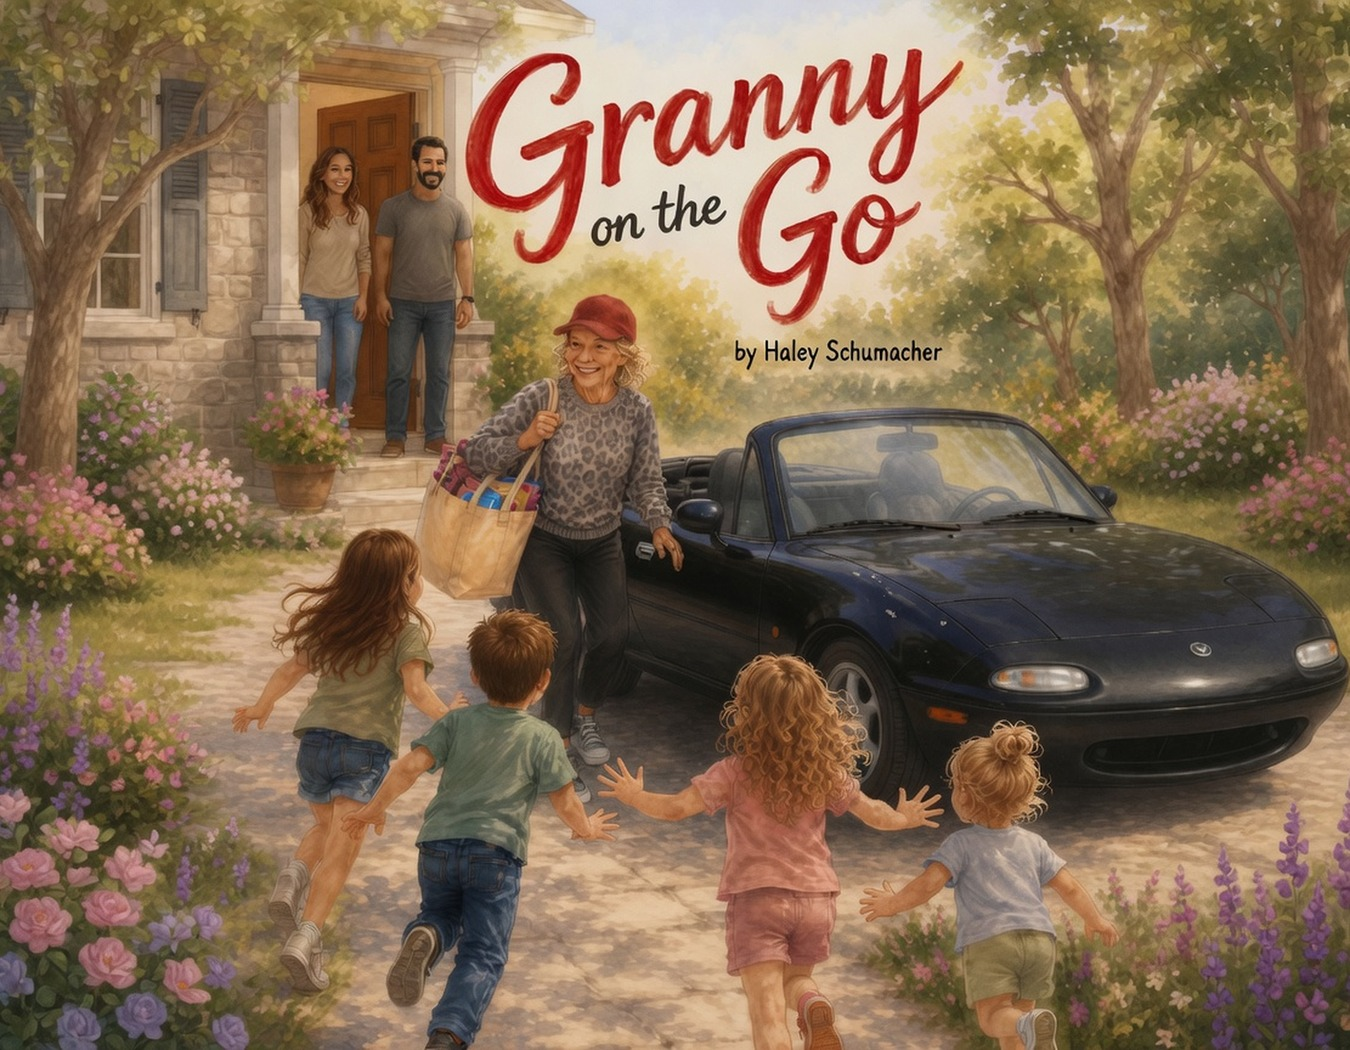
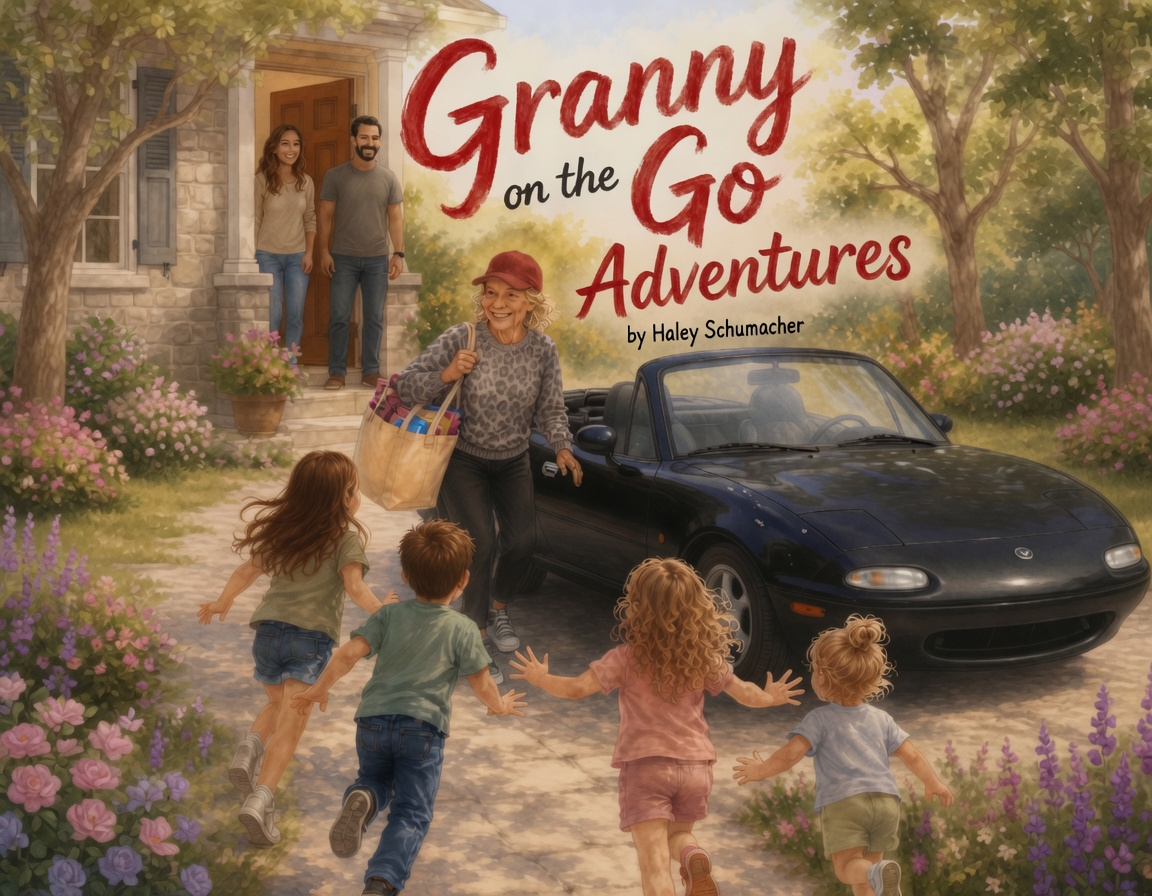
Update pricing: .99 standard / .99 signed hardcopy + flat-rate shipping; rename to Granny on the Go Adventures

diff --git a/src/app/layout.tsx b/src/app/layout.tsx
@@ -16,11 +16,11 @@ const sourceSans = Source_Sans_3({
 });
 
 export const metadata: Metadata = {
-  title: "Granny on the Go | Official Website | Granny on the Go Adventures",
+  title: "Granny on the Go Adventures | Official Website",
   description:
-    "Step into the timeless story of Granny on the Go — where ordinary days become extraordinary adventures. The official home of Granny on the Go Adventures.",
+    "Step into the timeless story of Granny on the Go Adventures — where ordinary days become extraordinary adventures. The official home of Granny on the Go Adventures.",
   keywords: [
-    "Granny on the Go",
+    "Granny on the Go Adventures",
     "children's book",
     "Haley Schumacher",
     "adventure",
@@ -36,9 +36,9 @@ export const metadata: Metadata = {
     canonical: "/",
   },
   openGraph: {
-    title: "Granny on the Go | Official Website",
+    title: "Granny on the Go Adventures | Official Website",
     description:
-      "Step into the timeless story of Granny on the Go — where ordinary days become extraordinary adventures.",
+      "Step into the timeless story of Granny on the Go Adventures — where ordinary days become extraordinary adventures.",
     url: "https://grannyonthegoadventures.com",
     siteName: "Granny on the Go Adventures",
     locale: "en_US",
@@ -48,15 +48,15 @@ export const metadata: Metadata = {
         url: "/images/og-image.jpg",
         width: 1200,
         height: 1600,
-        alt: "Granny on the Go book cover",
+        alt: "Granny on the Go Adventures book cover",
       },
     ],
   },
   twitter: {
     card: "summary_large_image",
-    title: "Granny on the Go | Official Website",
+    title: "Granny on the Go Adventures | Official Website",
     description:
-      "Step into the timeless story of Granny on the Go — where ordinary days become extraordinary adventures.",
+      "Step into the timeless story of Granny on the Go Adventures — where ordinary days become extraordinary adventures.",
     images: ["/images/og-image.jpg"],
   },
   robots: {

diff --git a/src/components/book/BookPageContent.tsx b/src/components/book/BookPageContent.tsx
@@ -33,7 +33,7 @@ export default function BookPageContent({ pageId, onNext }: Props) {
             Welcome to Granny on the Go Adventures.
           </p>
           <p className="mb-2 max-w-sm font-serif text-[13px] leading-snug text-charcoal/70 md:mb-3 md:text-base md:leading-relaxed">
-            This is the official home of Granny on the Go—a place where imagination
+            This is the official home of Granny on the Go Adventures—a place where imagination
             is encouraged, kindness is celebrated, and the smallest moments often
             become the greatest adventures.
           </p>
@@ -240,7 +240,7 @@ export default function BookPageContent({ pageId, onNext }: Props) {
             Mother. Storyteller. Believer in childhood.
           </p>
           <p className="mb-1.5 font-serif text-[13px] leading-snug text-charcoal/80 md:mb-2 md:text-base md:leading-relaxed">
-            Granny on the Go began as a simple dream—to capture the kind of childhood
+            Granny on the Go Adventures began as a simple dream—to capture the kind of childhood
             memories that stay with us forever.
           </p>
           <p className="mb-1.5 font-serif text-[13px] leading-snug text-charcoal/80 md:mb-2 md:text-base md:leading-relaxed">

diff --git a/src/components/book/OpenBook.tsx b/src/components/book/OpenBook.tsx
@@ -107,7 +107,7 @@ export default function OpenBook({
             <div className="relative flex flex-col justify-between px-8 py-8 lg:px-14 lg:py-12">
               <div>
                 <p className="font-sans text-[10px] uppercase tracking-[0.32em] text-terracotta/75">
-                  Granny on the Go
+                  Granny on the Go Adventures
                 </p>
                 <h2 className="mt-3 font-serif text-3xl leading-tight text-deep-burgundy lg:text-5xl">
                   {page?.title}
@@ -159,7 +159,7 @@ export default function OpenBook({
             <header className="shrink-0 border-b border-warm-beige/70 px-4 pb-2 pt-3">
               <div className="flex items-baseline justify-between gap-2">
                 <p className="font-sans text-[9px] uppercase tracking-[0.28em] text-terracotta/80">
-                  Granny on the Go
+                  Granny on the Go Adventures
                 </p>
                 <p className="shrink-0 font-sans text-[10px] text-charcoal/35">
                   {pageIndex + 1}/{BOOK_PAGES.length}

diff --git a/src/components/StructuredData.tsx b/src/components/StructuredData.tsx
@@ -8,14 +8,14 @@ export default function StructuredData() {
         url: "https://grannyonthegoadventures.com",
         name: "Granny on the Go Adventures",
         description:
-          "The official home of Granny on the Go — a children's book brand about curiosity, courage, and everyday wonder.",
+          "The official home of Granny on the Go Adventures — a children's book brand about curiosity, courage, and everyday wonder.",
         publisher: { "@id": "https://grannyonthegoadventures.com/#author" },
         inLanguage: "en-US",
       },
       {
         "@type": "Book",
         "@id": "https://grannyonthegoadventures.com/#book",
-        name: "Granny on the Go",
+        name: "Granny on the Go Adventures",
         author: { "@id": "https://grannyonthegoadventures.com/#author" },
         description:
           "A story about love, adventure, and the little things that mean the most. Ordinary days become extraordinary when someone truly sees a child.",

diff --git a/src/components/ComingSoon.tsx b/src/components/ComingSoon.tsx
@@ -61,7 +61,7 @@ export default function ComingSoon({ bookMode = false }: Props) {
         )}
 
         <p className="mb-2 font-serif text-xl text-charcoal/80 md:text-2xl">
-          Pre-order Granny on the Go
+          Pre-order Granny on the Go Adventures
         </p>
         <p className="mx-auto mb-4 max-w-md font-serif text-sm leading-relaxed text-charcoal/65 md:text-base">
           The first adventure is almost here. Reserve your copy and be among the first
@@ -97,6 +97,7 @@ export default function ComingSoon({ bookMode = false }: Props) {
         </div>
         <p className="mb-5 text-center font-sans text-[11px] text-charcoal/40">
           Each button opens only that product on Gumroad — they are sold separately.
+          {" "}Flat-rate shipping on all hardcopy orders.
         </p>
 
         {amazonUrl && (

diff --git a/src/lib/gumroad.ts b/src/lib/gumroad.ts
@@ -33,7 +33,7 @@ export const PREORDER_PRODUCTS: Record<"standard" | "signed", PreorderProduct> =
     standard: {
       id: "standard",
       slug: STANDARD_SLUG,
-      priceLabel: "$15.99",
+      priceLabel: "$14.99",
       title: "Preorder the Adventure",
       shortLabel: "Standard",
       description: "Book pre-order · Keepsake PDF",
@@ -41,10 +41,10 @@ export const PREORDER_PRODUCTS: Record<"standard" | "signed", PreorderProduct> =
     signed: {
       id: "signed",
       slug: SIGNED_SLUG,
-      priceLabel: "$20.99",
-      title: "Signed Copy",
+      priceLabel: "$27.99",
+      title: "Signed Hardcopy",
       shortLabel: "Signed",
-      description: "Author-signed copy · Limited",
+      description: "Author-signed hardcopy · Limited",
     },
   };
 

diff --git a/src/app/api/notify/route.ts b/src/app/api/notify/route.ts
@@ -9,7 +9,7 @@ const resend = process.env.RESEND_API_KEY
 
 const fromAddress =
   process.env.RESEND_FROM_EMAIL ??
-  "Granny on the Go <contact@grannyonthegoadventures.com>";
+  "Granny on the Go Adventures <contact@grannyonthegoadventures.com>";
 
 const toAddress =
   process.env.CONTACT_TO_EMAIL ?? "GrannyOnTheGoBooks@gmail.com";
@@ -49,7 +49,7 @@ export async function POST(request: NextRequest) {
       from: fromAddress,
       to: toAddress,
       replyTo: email,
-      subject: "[Granny on the Go] New adventure notify signup",
+      subject: "[Granny on the Go Adventures] New adventure notify signup",
       html: `
         <h2>Coming Soon — Notify Me</h2>
         <p>Someone wants to know when the first adventure arrives.</p>

diff --git a/src/app/api/contact/route.ts b/src/app/api/contact/route.ts
@@ -9,7 +9,7 @@ const resend = process.env.RESEND_API_KEY
 
 const fromAddress =
   process.env.RESEND_FROM_EMAIL ??
-  "Granny on the Go <contact@grannyonthegoadventures.com>";
+  "Granny on the Go Adventures <contact@grannyonthegoadventures.com>";
 
 const toAddress =
   process.env.CONTACT_TO_EMAIL ?? "GrannyOnTheGoBooks@gmail.com";
@@ -57,7 +57,7 @@ export async function POST(request: NextRequest) {
       from: fromAddress,
       to: toAddress,
       replyTo: email,
-      subject: `[Granny on the Go] ${subject}`,
+      subject: `[Granny on the Go Adventures] ${subject}`,
       html: `
         <h2>New Contact Form Message</h2>
         <p><strong>Name:</strong> ${safeName}</p>

diff --git a/src/components/MeetGranny.tsx b/src/components/MeetGranny.tsx
@@ -30,7 +30,7 @@ export default function MeetGranny() {
             <div className="relative h-52 w-52 flex-shrink-0 overflow-hidden rounded-full border-2 border-soft-gold/40 shadow-md md:h-60 md:w-60">
               <Image
                 src="/images/book-cover.jpg"
-                alt="Granny on the Go — smiling, red adventure cap, colorful tote, little black convertible"
+                alt="Granny on the Go Adventures — smiling, red adventure cap, colorful tote, little black convertible"
                 fill
                 sizes="240px"
                 className="object-cover object-[42%_28%]"

diff --git a/src/components/MeetAuthor.tsx b/src/components/MeetAuthor.tsx
@@ -40,7 +40,7 @@ export default function MeetAuthor() {
                 Haley Schumacher is a mother of four living in the Las Vegas area.
               </p>
               <p className="mb-4 font-serif text-lg leading-relaxed text-charcoal/80">
-                Granny on the Go grew from the adventures her children experienced with the
+                Granny on the Go Adventures grew from the adventures her children experienced with the
                 real-life inspiration for Granny.
               </p>
               <p className="font-serif text-lg leading-relaxed text-charcoal/80">

diff --git a/src/components/BookCover.tsx b/src/components/BookCover.tsx
@@ -201,7 +201,7 @@ export default function BookCover({ onComplete }: BookCoverProps) {
             />
             <Image
               src="/images/book-cover.jpg"
-              alt="Granny on the Go book cover — Granny arriving with her adventure tote as children run to greet her"
+              alt="Granny on the Go Adventures book cover — Granny arriving with her adventure tote as children run to greet her"
               fill
               priority
               sizes="(max-width: 768px) 92vw, 560px"

diff --git a/src/components/Footer.tsx b/src/components/Footer.tsx
@@ -5,7 +5,7 @@ export default function Footer() {
         <div className="grid grid-cols-1 md:grid-cols-3 gap-8 mb-8">
           <div>
             <h3 className="font-serif text-lg text-deep-burgundy mb-3">
-              Granny on the Go
+              Granny on the Go Adventures
             </h3>
             <p className="font-sans text-sm text-charcoal/50 max-w-xs">
               Where ordinary days become extraordinary adventures.
